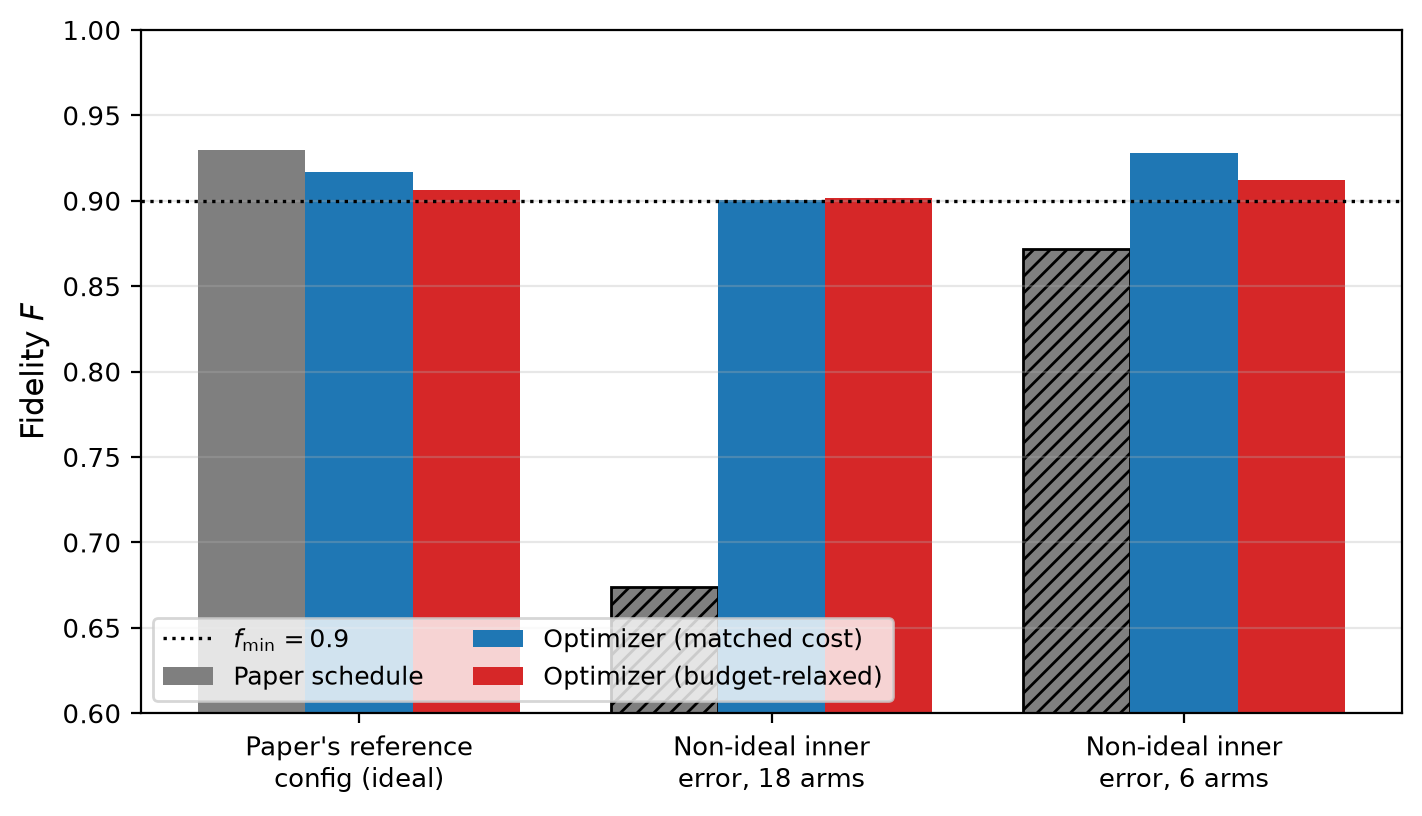
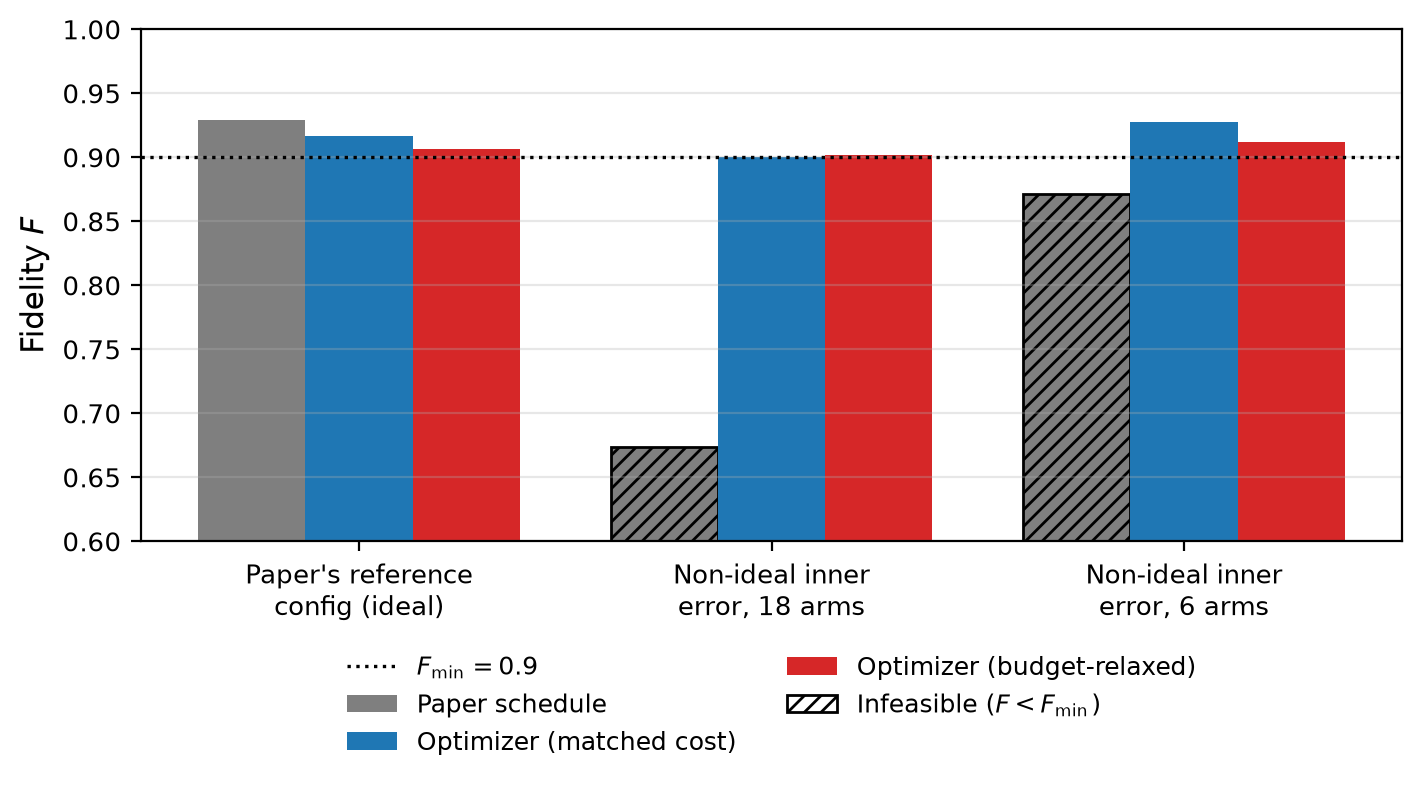
chore: rename script for N=18 and refine results for N=10, 12, 14, 16; update plotting and remove unused budget points script

diff --git a/experiments/thesis_scripts/_thesis_fig_netgen.py b/experiments/thesis_scripts/_thesis_fig_netgen.py
@@ -24,6 +24,7 @@ from pathlib import Path
 _PROJECT_ROOT = Path(__file__).resolve().parents[2]
 sys.path.insert(0, str(_PROJECT_ROOT / "src"))
 
+import matplotlib.patches as mpatches
 import matplotlib.pyplot as plt
 
 OUT_DIR = _PROJECT_ROOT / "thesis" / "figures" / "results"
@@ -69,7 +70,7 @@ def main() -> None:
         feasible = [
             by_config[cfg][variant]["meets_floor"] == "True" for cfg in CONFIG_ORDER
         ]
-        bars = ax.bar(offsets, heights, width, **VARIANT_STYLE[variant])
+        bars = ax.bar(offsets, heights, width, **VARIANT_STYLE[variant])  # type: ignore
         # Hatch infeasible bars so the "paper schedule breaks" point reads
         # from the figure itself, not just the caption/table.
         for bar, ok in zip(bars, feasible):
@@ -82,7 +83,7 @@ def main() -> None:
         color="black",
         linestyle=":",
         linewidth=1.2,
-        label=f"$f_{{\\min}}={F_MIN}$",
+        label=f"$F_{{\\min}}={F_MIN}$",
     )
     ax.set_xticks(x)
     ax.set_xticklabels([CONFIG_LABELS[c] for c in CONFIG_ORDER], fontsize=10)
@@ -90,7 +91,24 @@ def main() -> None:
     ax.set_ylim(0.6, 1.0)
     ax.grid(alpha=0.3, axis="y")
     ax.tick_params(labelsize=9.5)
-    ax.legend(fontsize=9, ncol=2, loc="lower left")
+    hatch_patch = mpatches.Patch(
+        facecolor="white",
+        edgecolor="black",
+        hatch="////",
+        label="Infeasible ($F<F_{\\min}$)",
+    )
+    handles, labels = ax.get_legend_handles_labels()
+    handles.append(hatch_patch)
+    labels.append(hatch_patch.get_label())
+    ax.legend(
+        handles,
+        labels,
+        fontsize=9,
+        ncol=2,
+        loc="upper center",
+        bbox_to_anchor=(0.5, -0.18),
+        frameon=False,
+    )
     fig.tight_layout()
     for fmt in ("png", "svg"):
         fig.savefig(OUT_DIR / f"fidelity_by_config.{fmt}", dpi=DPI, bbox_inches="tight")

diff --git a/src/hrgs_scheduler/reporting/plots.py b/src/hrgs_scheduler/reporting/plots.py
@@ -44,7 +44,7 @@ except ImportError as exc:  # pragma: no cover - exercised only when missing
 
 FIGSIZE: tuple[float, float] = (7.0, 4.5)
 DPI: int = 150
-SAVE_FORMATS: tuple[str, ...] = ("png", "svg")
+SAVE_FORMATS: tuple[str, ...] = ("png",)  # "svg")
 
 # Canonical style per schedule "role", reused across every sweep figure so
 # a reader learns the legend once. Sweep scripts should map their own
